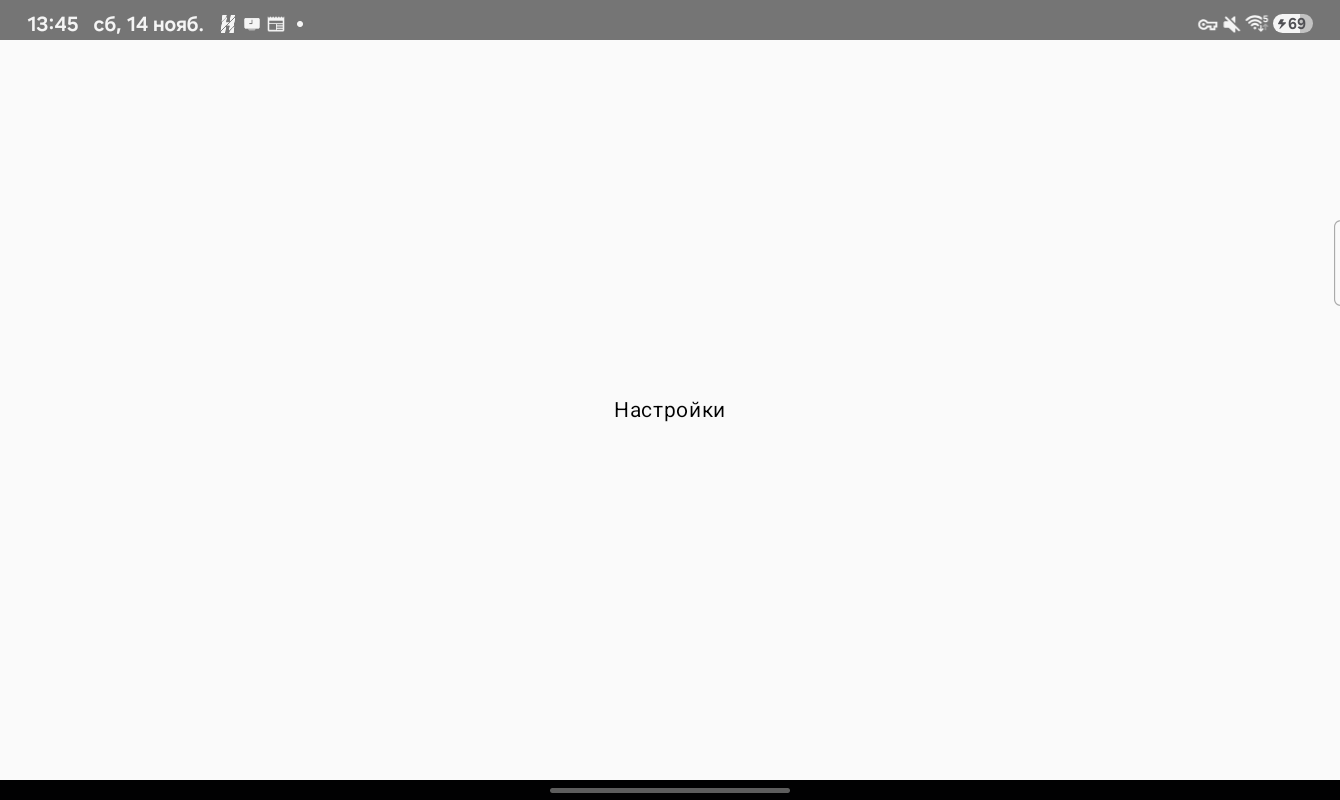
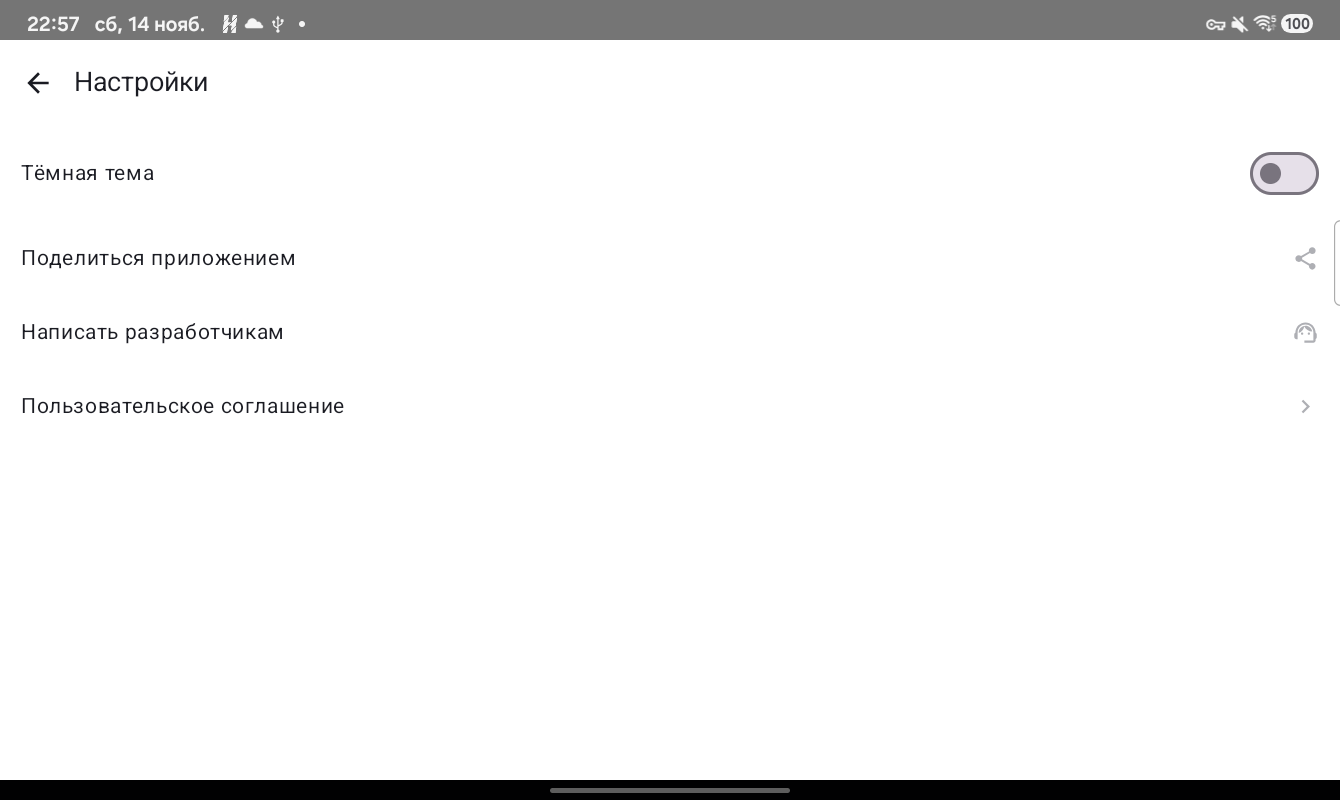
Add app screenshots to README

diff --git a/README.md b/README.md
@@ -10,6 +10,26 @@
 - Экран настроек: переключение тёмной темы, шеринг приложения, письмо разработчикам, переход к пользовательскому соглашению.
 - Все тексты и ссылки вынесены в `strings.xml`.
 
+## Скриншоты
+
+### Главный экран
+
+![Главный экран](main_screen.png)
+
+### Поиск
+
+![Экран поиска](search_screen.png)
+
+### Настройки
+
+![Экран настроек](settings_screen.png)
+
+### Тёмная тема
+
+![Настройки в тёмной теме](dark_theme.png)
+
+![Главный экран в тёмной теме](main_dark_screen.png)
+
 ## Сборка
 
 ```bash
